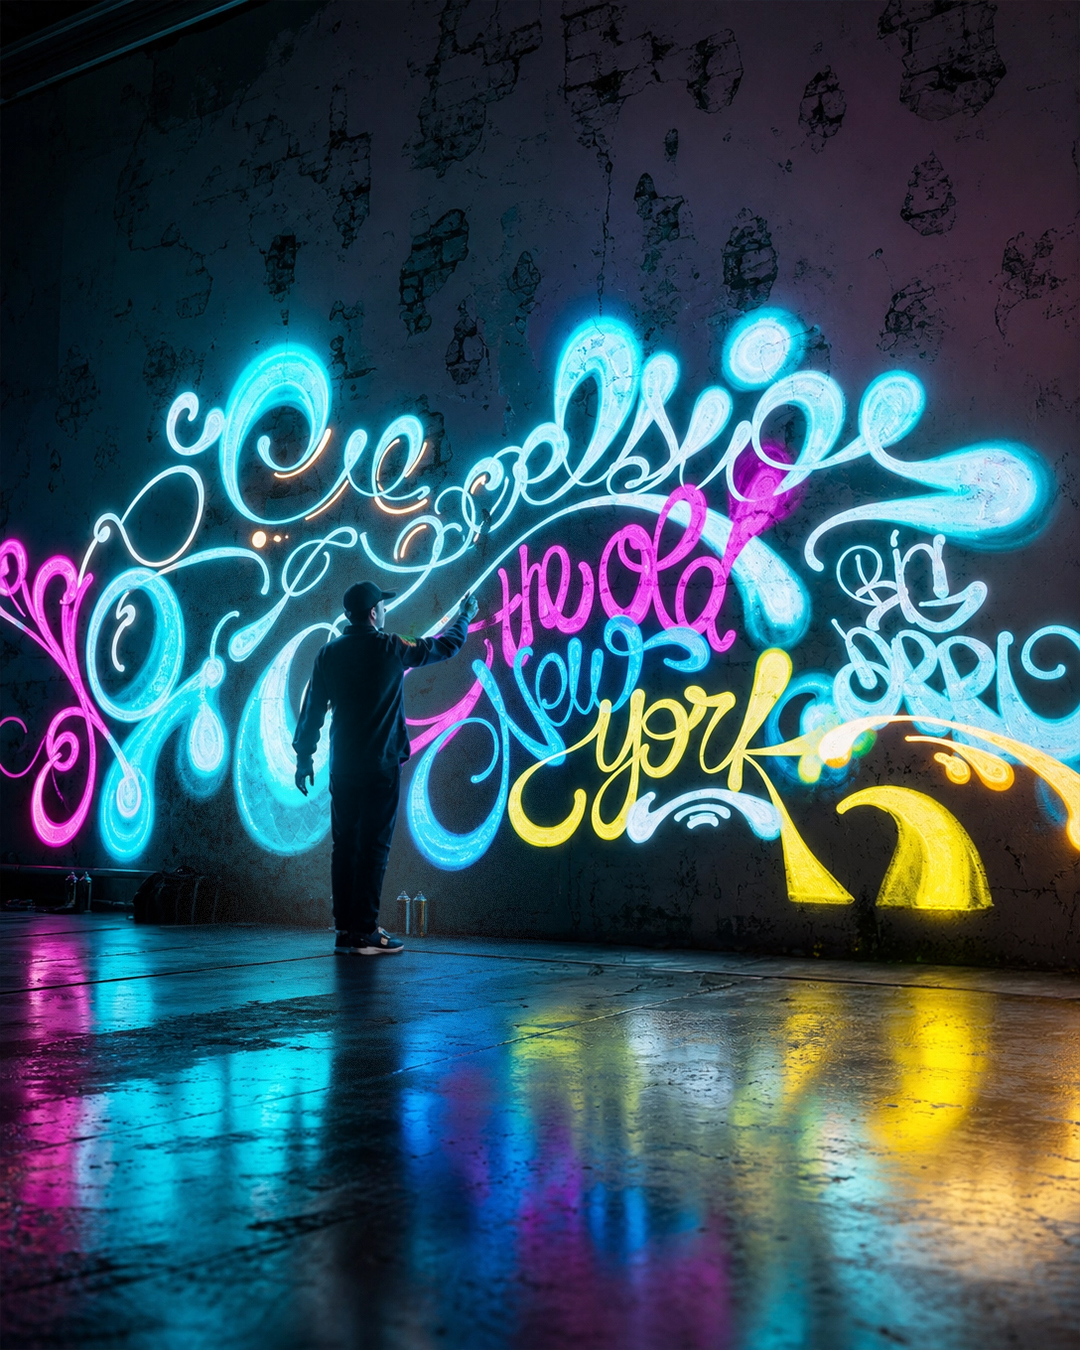
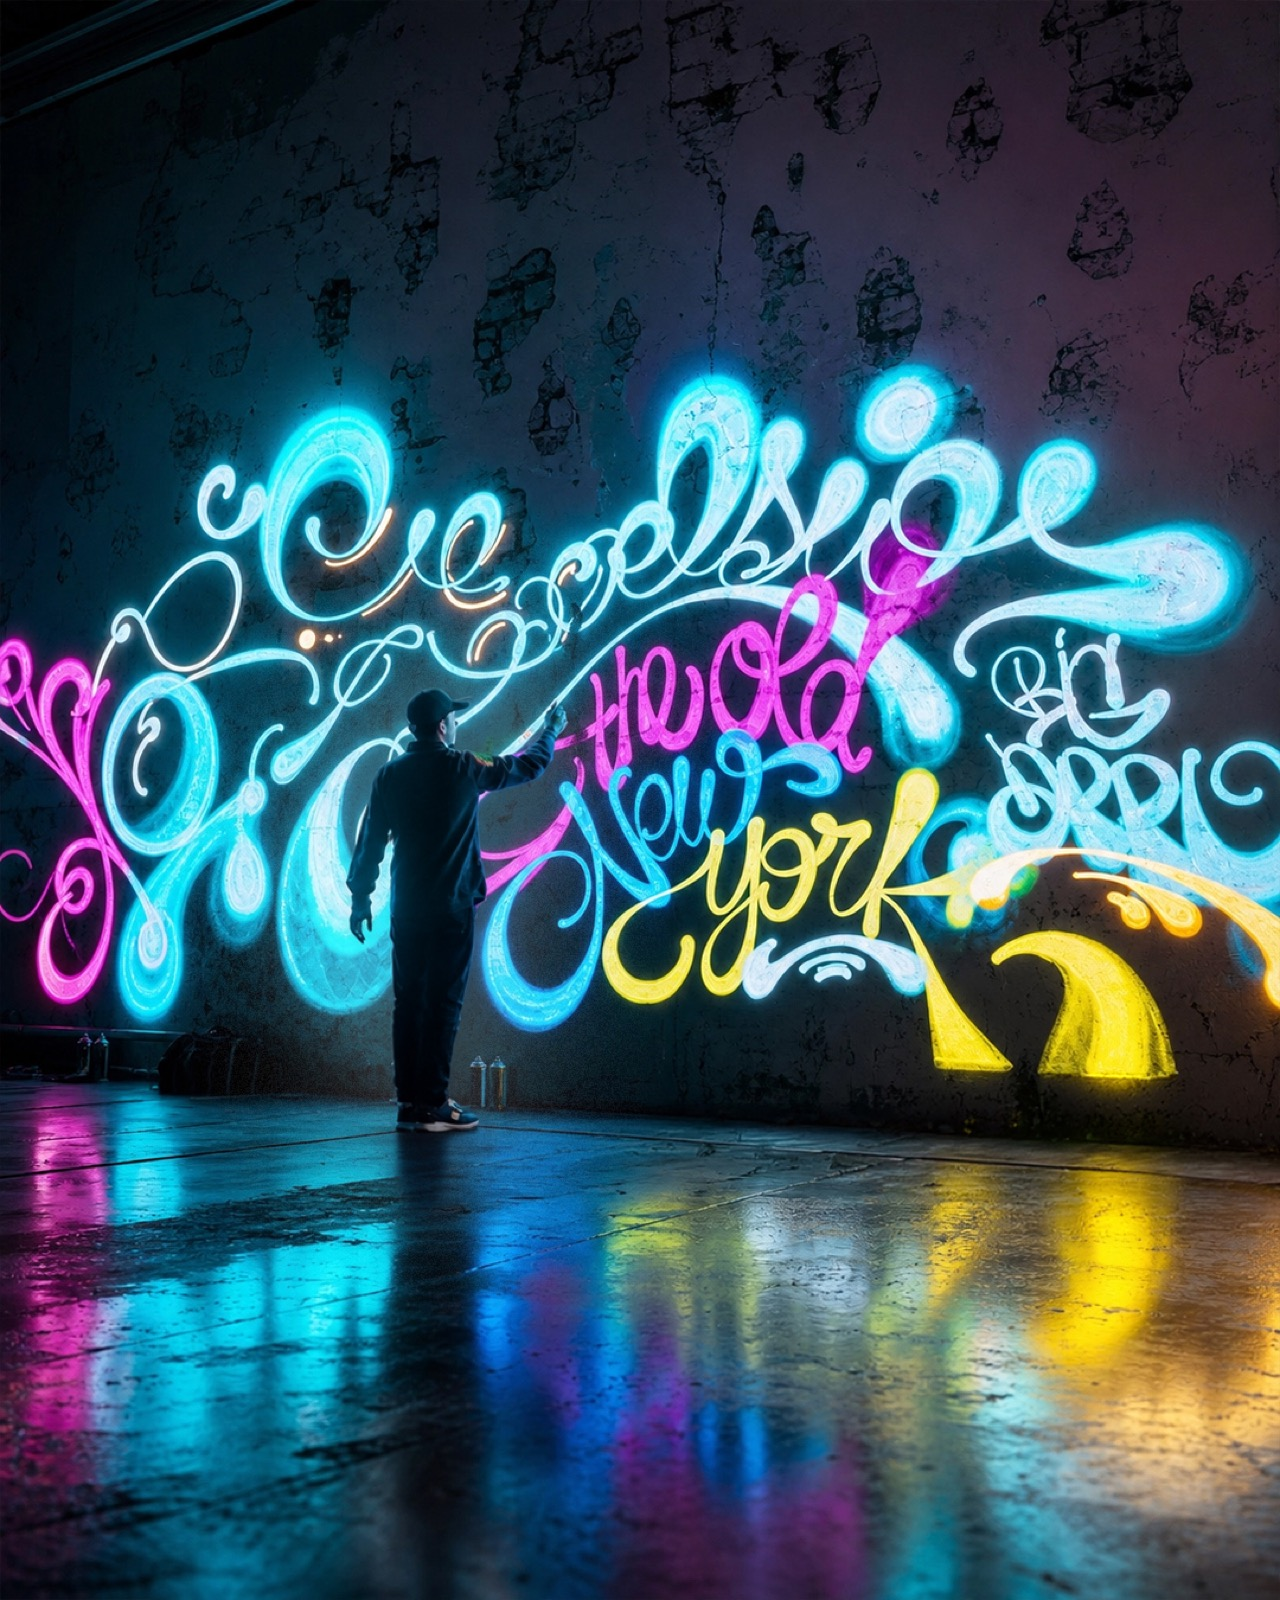
fiel szie improvements

Changed region(s): [[0.55, 0.56, 0.5806, 0.5911]]

diff --git a/rentals.html b/rentals.html
@@ -111,7 +111,7 @@
 <!-- RENTAL CARDS -->
 <div class="rental-cards">
   <div class="rental-card">
-    <video autoplay muted loop playsinline class="rental-card-img"><source src="videos/rentals-led.webm" type="video/webm"><source src="videos/rentals-led.mp4" type="video/mp4"></video>
+    <video autoplay muted loop playsinline class="rental-card-img"><source src="videos/rentals-led.mp4" type="video/mp4"></video>
     <div class="rental-card-body">
       <div class="rental-card-num">01</div>
       <h2>LED Screen</h2>
@@ -142,7 +142,7 @@
     </div>
   </div>
   <div class="rental-card">
-    <video autoplay muted loop playsinline class="rental-card-img"><source src="videos/rentals-lcd.webm" type="video/webm"><source src="videos/rentals-lcd.mp4" type="video/mp4"></video>
+    <video autoplay muted loop playsinline class="rental-card-img"><source src="videos/rentals-lcd.mp4" type="video/mp4"></video>
     <div class="rental-card-body">
       <div class="rental-card-num">02</div>
       <h2>TV LCD Screen</h2>
@@ -173,7 +173,7 @@
     </div>
   </div>
   <div class="rental-card">
-    <video autoplay muted loop playsinline class="rental-card-img"><source src="videos/rentals-projection.webm" type="video/webm"><source src="videos/rentals-projection.mp4" type="video/mp4"></video>
+    <video autoplay muted loop playsinline class="rental-card-img"><source src="videos/rentals-projection.mp4" type="video/mp4"></video>
     <div class="rental-card-body">
       <div class="rental-card-num">03</div>
       <h2>Projection Screen</h2>

diff --git a/about.html b/about.html
@@ -460,7 +460,6 @@
   <h1>Eighteen years.<br>Six continents.<br>One premise.</h1>
   <div class="tl-about-video">
     <video autoplay muted loop playsinline>
-      <source src="videos/about.webm" type="video/webm">
       <source src="videos/about.mp4" type="video/mp4">
     </video>
   </div>